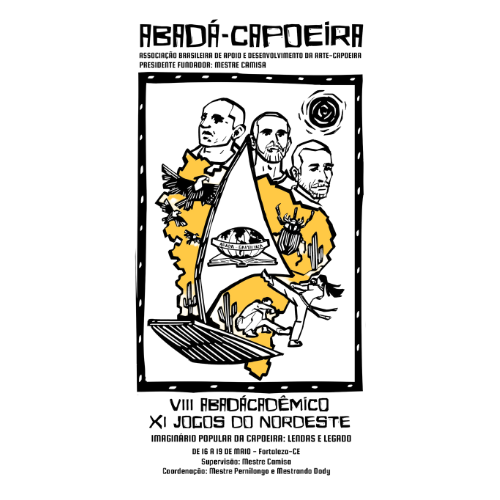
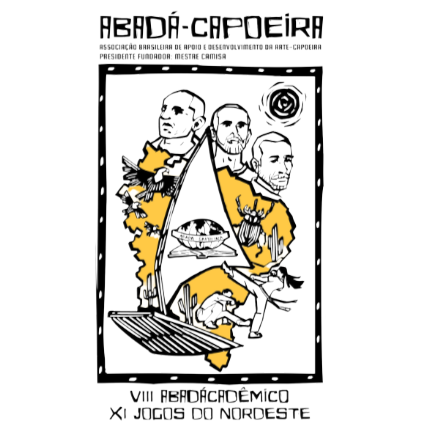
refactor: refactoring components and pages

diff --git a/capoeira_app/src/pages/Login/index.js b/capoeira_app/src/pages/Login/index.js
@@ -1,54 +1,46 @@
 import React, { useState } from 'react';
 import styles from './Login.module.css';
 import Banner from '../../components/Banner';
-import Container from '../../components/Container';
-import Header from '../../components/Header';
-import Footer from '../../components/Footer';
-
 
 function Login() {
     const [credentials, setCredentials] = useState({ username:'', password:'' });
 
     return (
       <>
-        <Header />
-        <Container>
-            <div className={styles.container}>
-                <div className={styles.div1}>
-                    <Banner />
-                </div>
-                <div className={styles.div2}>
-                    <div className={styles.mainContainer}>
-                        <div className={styles.titleContainer}>
-                            <div>Login</div>
-                        </div>
-                        <br />
-                        <div className={styles.inputContainer}>
-                            <input
-                                value={credentials.username}
-                                placeholder="Digite seu usuário"
-                                onChange={ev => setCredentials.username(ev.target.value)}
-                                className={styles.inputBox}
-                            />
-                        </div>
-                        <br />
-                        <div className={styles.inputContainer}>
-                            <input
-                                value={credentials.password}
-                                placeholder="Digite sua senha"
-                                onChange={ev => setCredentials.password(ev.target.value)}
-                                className={styles.inputBox}
-                            />
-                        </div>
-                        <br />
-                        <div className={styles.inputContainer}>
-                            <button className={styles.button} type='submit'>Entrar</button>
-                        </div>
+        <div className={styles.container}>
+            <div className={styles.divcontainer}>
+                <Banner />
+            </div>
+            <div className={styles.divlogin}>
+                <div className={styles.mainContainer}>
+                    <div className={styles.titleContainer}>
+                        <div>Login</div>
+                    </div>
+                    <br />
+                    <div className={styles.inputContainer}>
+                        <input
+                            value={credentials.username}
+                            placeholder="Digite seu usuário"
+                            onChange={ev => setCredentials.username(ev.target.value)}
+                            className={styles.inputBox}
+                        />
+                    </div>
+                    <br />
+                    <div className={styles.inputContainer}>
+                        <input
+                            value={credentials.password}
+                            placeholder="Digite sua senha"
+                            onChange={ev => setCredentials.password(ev.target.value)}
+                            className={styles.inputBox}
+                        />
+                    </div>
+                    <br />
+                    <div className={styles.inputContainer}>
+                        <button className={styles.button} type='submit'>Entrar</button>
                     </div>
                 </div>
             </div>
-        </Container>
-        <Footer />
+        </div>
       </>
     );
   }

diff --git a/capoeira_app/src/pages/Home/index.js b/capoeira_app/src/pages/Home/index.js
@@ -1,19 +1,21 @@
-import styles from "./Home.module.css";
-import Banner from "../../components/Banner";
 import Container from "../../components/Container";
 import Footer from "../../components/Footer";
 import Header from "../../components/Header";
+import Login from "../Login";
 
 function Home() {
   return (
     <>
       <Header />
       <Container>
+        <Login />
+        {/* 
           <div className={styles.container}>
               <div className={styles.divimage}>
                   <Banner />
               </div>
           </div>
+        */}
       </Container>
       <Footer />
     </>

diff --git a/capoeira_app/src/components/Header/index.js b/capoeira_app/src/components/Header/index.js
@@ -1,5 +1,4 @@
 import styles from './Header.module.css';
-import { Link } from 'react-router-dom';
 import logo from '../../images/logo.png';
 
 function Header(){
@@ -7,7 +6,7 @@ function Header(){
         <header className={styles.header}>
             <img src={logo} alt="" className={styles.logo}/>
             <nav>
-                <Link to="/login">Entrar</Link>
+                {/*<Link to="/login">Entrar</Link>*/}
             </nav>
         </header>
     );

diff --git a/capoeira_app/src/components/Header/Header.module.css b/capoeira_app/src/components/Header/Header.module.css
@@ -1,9 +1,9 @@
 .header {
     width: 100%;
-    height: 68px;
+    height: 87px;
     background-color: var(--primary);
     color: var(--white);
-    border-bottom:  2px solid var(--red);
+    border-bottom:  3px solid var(--red);
     position: fixed;
     top: 0;
    
@@ -19,7 +19,7 @@
 
 .logo {
     width: 100px;
-    height: auto;
+    height: 19vh;
 }
 
 .header a {

diff --git a/capoeira_app/src/pages/Login/Login.module.css b/capoeira_app/src/pages/Login/Login.module.css
@@ -50,10 +50,23 @@
     align-items: center;
 }  
 
-.div1, .div2 {
+.divcontainer {
     width: 50%;
     height: 90%;
     flex: 1;
     margin: 10px; 
     padding: 20px;
+    margin-left: 4%;
+}
+
+.divlogin {
+    width: 50%;
+    height: 90%;
+    flex: 1;
+    margin: 10px; 
+    padding: 20px;
+}
+
+.button:hover {
+    background-color: var(--red);
 }

diff --git a/capoeira_app/src/components/Banner/Banner.module.css b/capoeira_app/src/components/Banner/Banner.module.css
@@ -4,6 +4,7 @@
     background-color: var(--white);
     background-image: url('../../images/banner.png');
     background-position: center;
+    opacity: 60%;
     background-repeat: no-repeat;
-    background-size: 90%;
+    background-size: 94%;
 }
